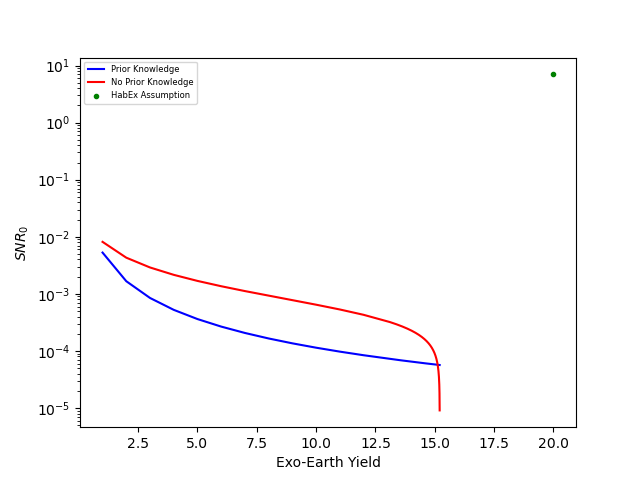
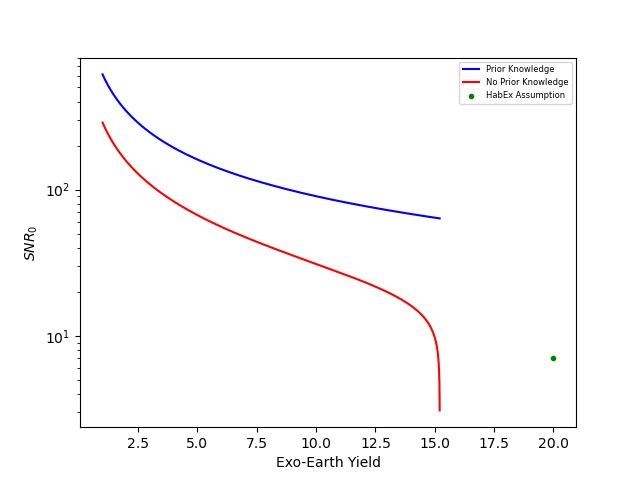
Fixed SNR0 plots

diff --git a/dgraphs.py b/dgraphs.py
@@ -256,18 +256,34 @@ def get_etaearth_sca(Noplusa, la, avara, rhostara, etaeartha, snr0a, Ra, Ka, eps
 
 def SNR_photon_noprior(Noplusa, la, avara, rhostara, etaeartha, da, Ra, Ka, epsa, Ta, iwafaca, rvala):
     Dlim = np.cbrt(d(m(3,Noplusa),m(4*pi,m(rhostara, etaeartha))))
-    nvar = d(m(3,la),avara)
-    sq = s(1,np.power(d(m(Dlim,nvar),da),2))
-    extramult=d(m(5,m(m(Ta,Ra),m(Ka,epsa))),m(48,r))
-    fivethirds = np.power(d(etaeartha,Noplusa),5/3)
-    twothirds = np.power(d(m(4*pi,rhostara),3),2/3)
-    return np.sqrt(m(m(sq, extramult),m(fivethirds, twothirds)))
+    innersqrt=np.sqrt(s(1,np.power(d(m(3,m(Dlim,la)),m(da,avara)),2)))
+    top=m(m(m(5/48,Ra),m(Ka,Ta)),m(m(epsa,innersqrt),m(np.power(etaeartha,5/3),np.power(da,2))))
+    bottom=m(rvala,np.power(Noplusa,5/3))
+    outersqrt=np.sqrt(d(top,bottom))
+    cuberoot=np.cbrt(d(m(4*pi,rhostara),3))
+    return m(outersqrt,cuberoot)
 
 def SNR_photon_prior(Noplusa, la, avara, rhostara, etaeartha, da, Ra, Ka, epsa, Ta, iwafaca, rvala):
-    top=m(m(5,Ta),m(m(Ra,Ka),m(np.power(da,2),epsa)))
-    bottom=m(48,m(r,np.power(Noplusa,5/3)))
-    twothirds = np.power(d(m(4*pi,m(rhostara,etaeartha)),3),2/3)
-    return m(d(top, bottom),twothirds)
+    top=m(m(5/48,np.power(da,2)),m(m(Ra,Ka),m(Ta,epsa)))
+    bottom=m(rvala,np.power(Noplusa,5/3))
+    squareroot=np.sqrt(d(top,bottom))
+    cuberoot=np.cbrt(d(m(4*pi,m(rhostara,etaeartha)),3))
+    return m(squareroot,cuberoot)
+
+#BAD!! SOMETHING IS WRONG WITH THESE!
+#def SNR_photon_noprior(Noplusa, la, avara, rhostara, etaeartha, da, Ra, Ka, epsa, Ta, iwafaca, rvala):
+#    Dlim = np.cbrt(d(m(3,Noplusa),m(4*pi,m(rhostara, etaeartha))))
+#    nvar = d(m(3,la),avara)
+#    sq = s(1,np.power(d(m(Dlim,nvar),da),2))
+#    extramult=d(m(5,m(m(Ta,Ra),m(Ka,epsa))),m(48,r))
+#    fivethirds = np.power(d(etaeartha,Noplusa),5/3)
+#    twothirds = np.power(d(m(4*pi,rhostara),3),2/3)
+#    return np.sqrt(m(m(sq, extramult),m(fivethirds, twothirds)))
+#def SNR_photon_prior(Noplusa, la, avara, rhostara, etaeartha, da, Ra, Ka, epsa, Ta, iwafaca, rvala):
+#    top=m(m(5,Ta),m(m(Ra,Ka),m(np.power(da,2),epsa)))
+#    bottom=m(48,m(r,np.power(Noplusa,5/3)))
+#    twothirds = np.power(d(m(4*pi,m(rhostara,etaeartha)),3),2/3)
+#    return m(d(top, bottom),twothirds)
 
 def get_real_pos_root(coeff0a,coeff2a,coeff10a):
     roots=np.polynomial.polynomial.Polynomial((coeff0a,0,coeff2a,0,0,0,0,0,0,0,coeff10a)).roots()
@@ -586,7 +602,7 @@ if ETAvT:
 if SNR0vNOPLUS:
     titlestr = ' $SNR_0$ vs $N_\oplus$'
     noplus_limit = get_Noplus_sca([], l, avar, rhostar, etaearth, snr0, R, K, eps, dvar, iwafac, rval)
-    noplusvals = list(range(1,int(noplus_limit)-2))
+    noplusvals = np.linspace(1,int(noplus_limit)-2,1000)
     #Aggressively sample near the asymptote, to give it better clarity.
     nearval = np.linspace(int(noplus_limit)-2, noplus_limit, 1000)[0:999]
     noplusvals = np.concatenate((noplusvals, nearval))
